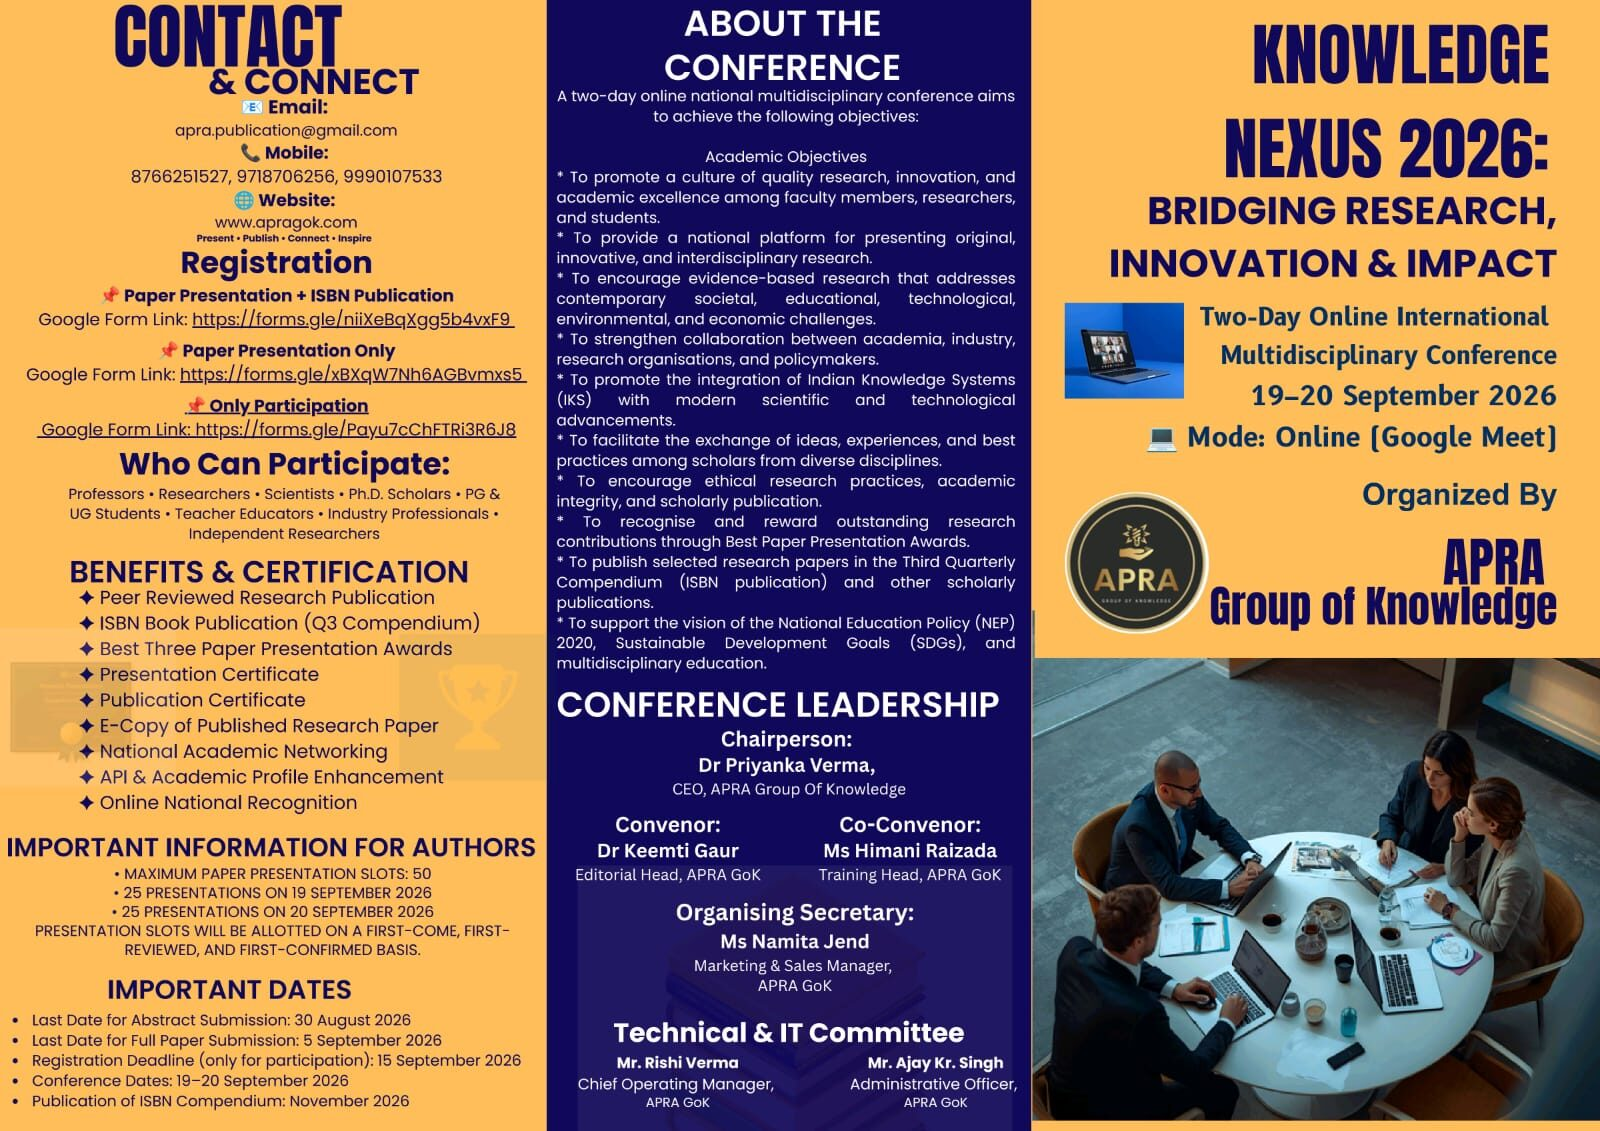
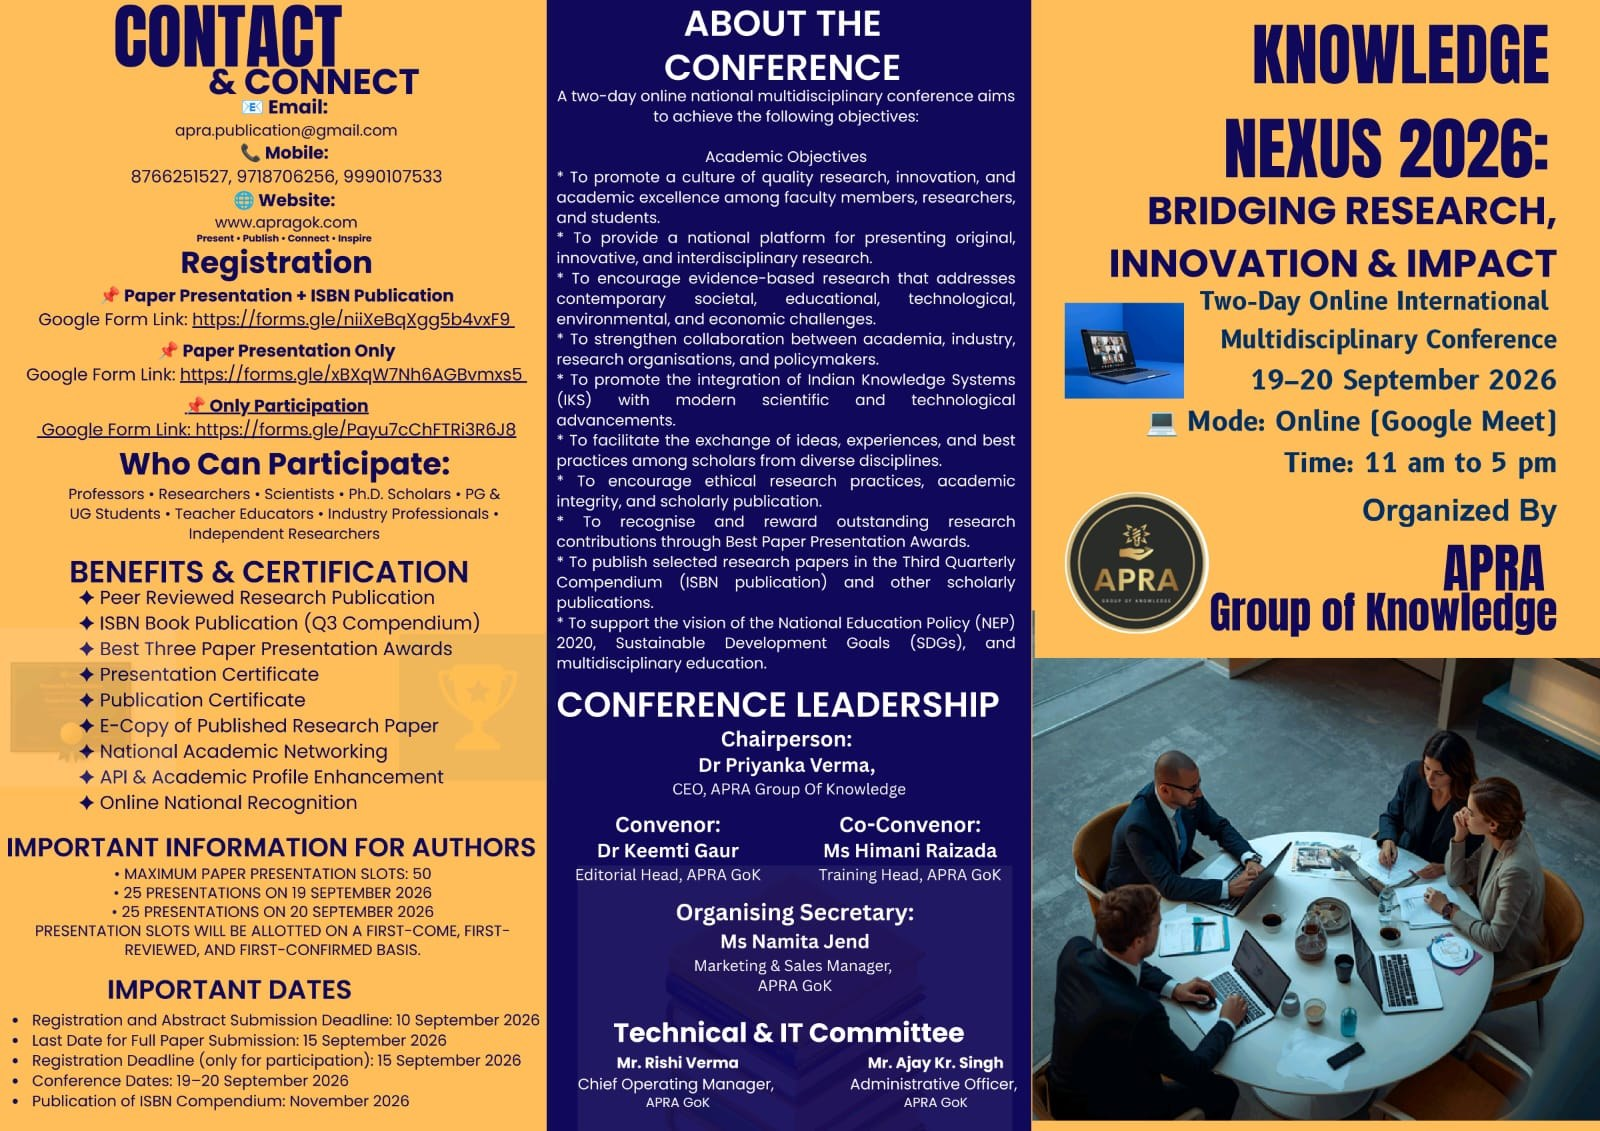
Changes

Changed region(s): [[0.7188, 0.2476, 1.0, 0.557], [0.0312, 0.8974, 0.3438, 0.9284]]

diff --git a/src/pages/KnowledgeNexus.tsx b/src/pages/KnowledgeNexus.tsx
@@ -60,7 +60,7 @@ const benefits = [
 ];
 
 const importantDates = [
-  { label: "Last Date for Abstract Submission", value: "30 August 2026" },
+  { label: "Registration and Abstract Submission Deadline", value: "10 September 2026" },
   { label: "Last Date for Full Paper Submission", value: "5 September 2026" },
   { label: "Registration Deadline (participation only)", value: "15 September 2026" },
   { label: "Conference Dates", value: "19–20 September 2026" },
@@ -71,7 +71,7 @@ const tracks = [
   {
     title: "Track 1: Indian Knowledge Systems (IKS) & Bharatiya Knowledge Traditions",
     items:
-      "NEP 2020 and IKS · Integration of IKS in Higher Education · Ancient Indian Scientific & Technological Heritage · Indian Philosophy and Ethics · Vedic Mathematics · Ayurveda, Yoga & Holistic Health · Sanskrit and Classical Knowledge Traditions · Indigenous Knowledge & Sustainable Development · Traditional Ecological Knowledge · Indian Arts, Literature & Heritage · Value-Based Education · Traditional Agricultural Practices · Indigenous Innovation & Rural Development",
+      "NEP 2020 and IKS · Integration of IKS in Higher Education · Ancient Indian Scientific & Technological Heritage · Indian Philosophy and Ethics · Vedic Mathematics and Computational Thinking · Ayurveda, Yoga & Holistic Health · Sanskrit and Classical Knowledge Traditions · Indigenous Knowledge & Sustainable Development · Traditional Ecological Knowledge · Indian Arts, Literature & Heritage · Value-Based Education · Traditional Agricultural Practices · Indigenous Innovation & Rural Development",
   },
   {
     title: "Track 2: Education and Educational Innovation",
@@ -86,7 +86,7 @@ const tracks = [
   {
     title: "Track 4: Business, Commerce and Entrepreneurship",
     items:
-      "Entrepreneurship & Innovation · Digital Marketing · Business Analytics · FinTech · Human Resource Management · Strategic Management · Supply Chain Management · Sustainable Business Practices · Start-up Ecosystem · Corporate Governance",
+      "Entrepreneurship & Innovation · Digital Marketing · Business Analytics · Financial Technology (FinTech) · Human Resource Management · Strategic Management · Supply Chain Management · Sustainable Business Practices · Start-up Ecosystem · Corporate Governance",
   },
   {
     title: "Track 5: Science, Engineering and Sustainable Development",

diff --git a/src/pages/Workshops.tsx b/src/pages/Workshops.tsx
@@ -226,7 +226,7 @@ const Workshops = () => {
               </Button>
             </div>
             <p className="text-sm text-muted-foreground">
-              Abstract submission: 30 August 2026 · Only 50 presentation slots — first-come, first-reviewed, first-confirmed
+              Registration and abstract submission: 10 September 2026 · Only 50 presentation slots — first-come, first-reviewed, first-confirmed
             </p>
           </motion.div>
         </div>
